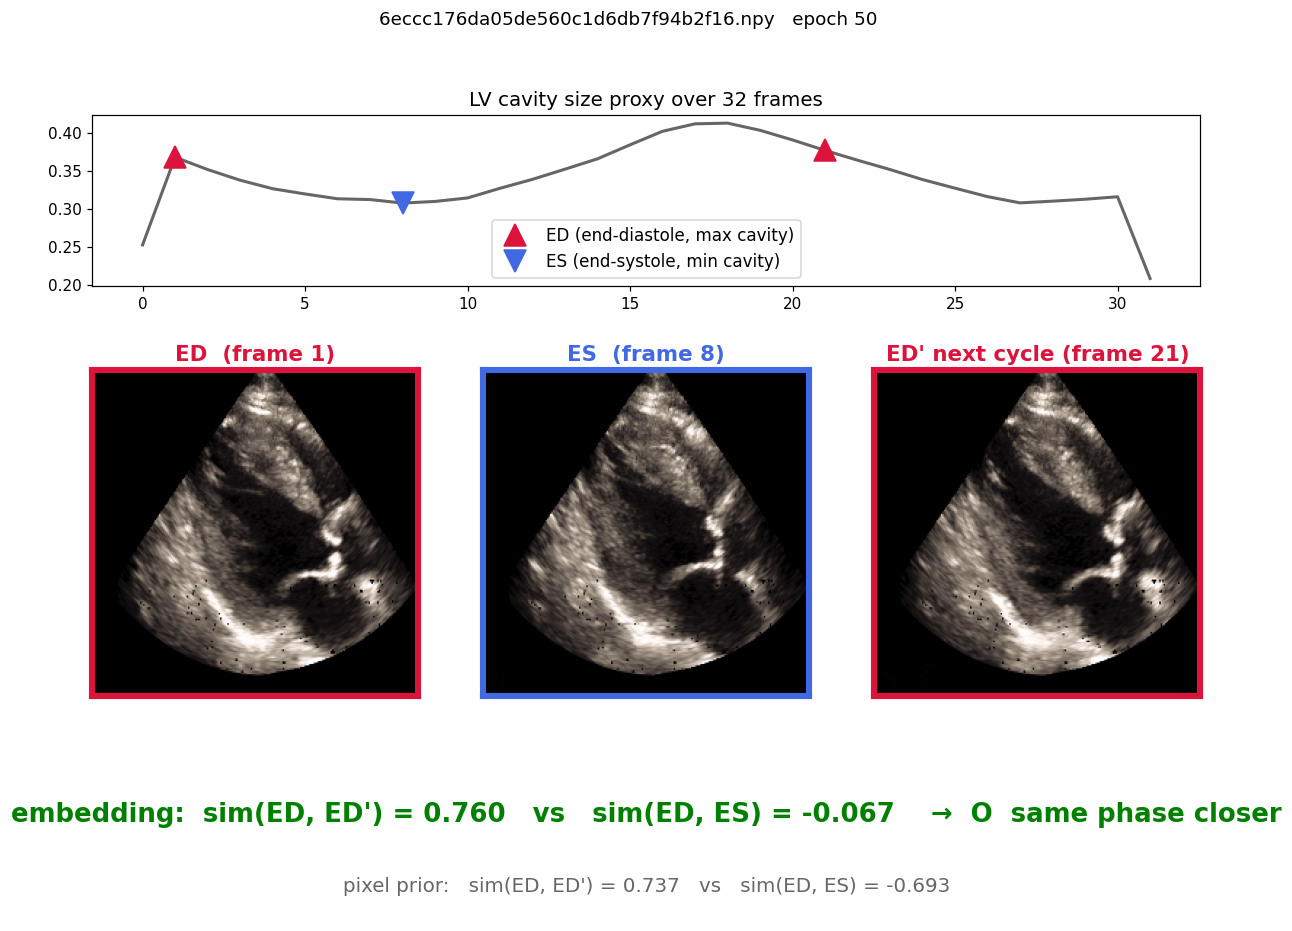
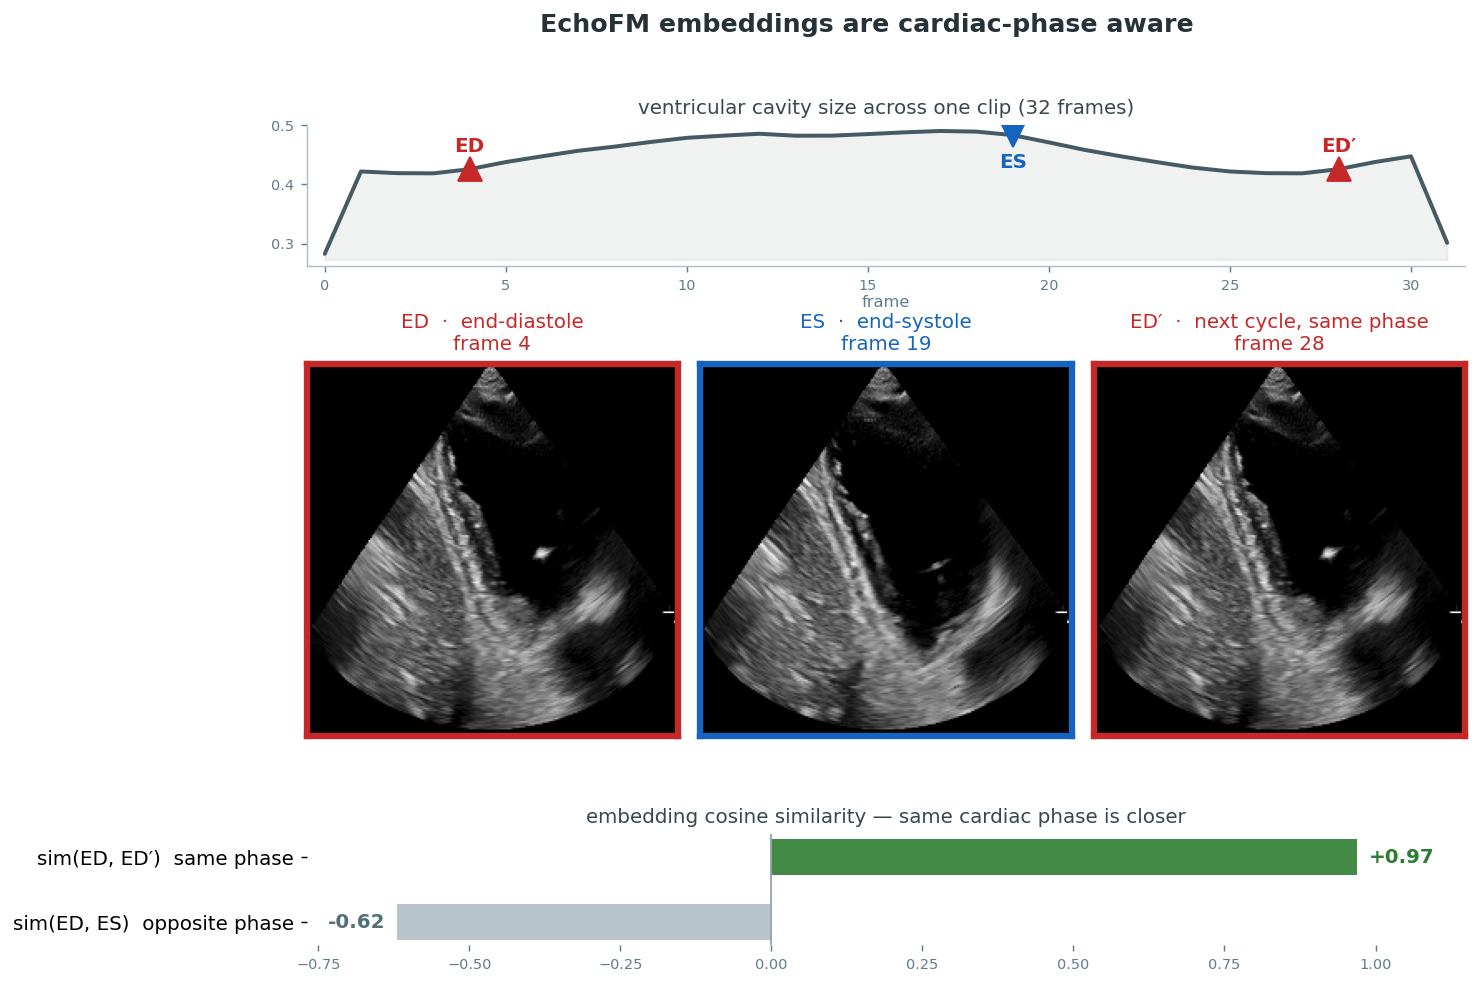
README: periodicity-aware pretraining section, polished verification figure, TMI citation

diff --git a/tools/make_readme_figure.py b/tools/make_readme_figure.py
@@ -1,0 +1,179 @@
+"""
+Polished periodicity figure for the README.
+
+Scans clips, keeps clean B-mode ones (no Doppler color) where the ED/ES
+cross-cycle test passes with a large margin, and renders a publication-style
+figure: cavity curve + ED/ES/ED' frames + embedding-similarity comparison.
+"""
+import argparse
+import os
+import sys
+
+sys.path.insert(0, os.path.dirname(os.path.dirname(os.path.abspath(__file__))))
+
+import numpy as np
+import torch
+import torch.nn.functional as F
+
+import matplotlib
+
+matplotlib.use("Agg")
+import matplotlib.pyplot as plt
+
+from EchoFM import models_mae
+from data.dataset import EchoDataset_from_cache_npy
+from tools.visualize_ed_es import cavity_curve, cycle_length, find_ed_es
+
+
+def parse_args():
+    ap = argparse.ArgumentParser()
+    ap.add_argument("--ckpt", required=True)
+    ap.add_argument("--data_path", required=True)
+    ap.add_argument("--num_scan", type=int, default=120)
+    ap.add_argument("--num_render", type=int, default=4)
+    ap.add_argument("--out", required=True)
+    ap.add_argument("--seed", type=int, default=3)
+    return ap.parse_args()
+
+
+@torch.no_grad()
+def embed_sim_map(model, imgs):
+    latent, _, _ = model.forward_encoder(imgs, mask_ratio=0.0)
+    z = F.normalize(torch.stack(model.forward_prj(latent), dim=1), dim=-1)
+    return torch.bmm(z, z.transpose(1, 2))[0].cpu().numpy()
+
+
+def is_bmode(imgs):
+    """True when the clip is essentially grayscale (no Doppler color)."""
+    x = imgs[0]  # [3, T, H, W]
+    return float((x.max(dim=0).values - x.min(dim=0).values).mean()) < 0.01
+
+
+def render(frames, area, ed1, es, ed2, e_same, e_opp, path):
+    fig = plt.figure(figsize=(11.5, 8.2), facecolor="white")
+    gs = fig.add_gridspec(
+        3, 3, height_ratios=[0.95, 2.6, 0.75], hspace=0.42, wspace=0.06
+    )
+
+    ax = fig.add_subplot(gs[0, :])
+    t = np.arange(len(area))
+    ax.plot(t, area, color="#455a64", lw=2.2, solid_capstyle="round")
+    ax.fill_between(t, area, area.min() - 0.01, color="#455a64", alpha=0.08)
+    for f, c, m in [(ed1, "#c62828", "^"), (es, "#1565c0", "v"), (ed2, "#c62828", "^")]:
+        ax.plot([f], [area[f]], m, color=c, ms=13, zorder=5)
+    ax.annotate("ED", (ed1, area[ed1]), textcoords="offset points", xytext=(0, 10),
+                ha="center", fontsize=11, color="#c62828", fontweight="bold")
+    ax.annotate("ES", (es, area[es]), textcoords="offset points", xytext=(0, -18),
+                ha="center", fontsize=11, color="#1565c0", fontweight="bold")
+    ax.annotate("ED′", (ed2, area[ed2]), textcoords="offset points", xytext=(0, 10),
+                ha="center", fontsize=11, color="#c62828", fontweight="bold")
+    ax.set_xlim(-0.5, len(area) - 0.5)
+    ax.set_title("ventricular cavity size across one clip (32 frames)",
+                 fontsize=11, color="#37474f")
+    ax.set_xlabel("frame", fontsize=9, color="#607d8b", labelpad=1)
+    ax.tick_params(labelsize=8, colors="#607d8b")
+    for s in ("top", "right"):
+        ax.spines[s].set_visible(False)
+    for s in ("left", "bottom"):
+        ax.spines[s].set_color("#b0bec5")
+
+    panels = [
+        (ed1, "ED  ·  end-diastole", "#c62828"),
+        (es, "ES  ·  end-systole", "#1565c0"),
+        (ed2, "ED′  ·  next cycle, same phase", "#c62828"),
+    ]
+    for i, (f, label, color) in enumerate(panels):
+        ax = fig.add_subplot(gs[1, i])
+        ax.imshow(frames[f])
+        ax.set_title(f"{label}\nframe {f}", fontsize=11, color=color, pad=8)
+        for s in ax.spines.values():
+            s.set_edgecolor(color)
+            s.set_linewidth(3.5)
+        ax.set_xticks([])
+        ax.set_yticks([])
+
+    ax = fig.add_subplot(gs[2, :])
+    ax.barh([1, 0], [e_same, e_opp], height=0.55,
+            color=["#2e7d32", "#b0bec5"], alpha=0.9)
+    ax.set_yticks([1, 0])
+    ax.set_yticklabels(["sim(ED, ED′)  same phase", "sim(ED, ES)  opposite phase"],
+                       fontsize=11)
+    for y, v in [(1, e_same), (0, e_opp)]:
+        ax.text(v + (0.02 if v >= 0 else -0.02), y, f"{v:+.2f}",
+                va="center", ha="left" if v >= 0 else "right",
+                fontsize=11, fontweight="bold",
+                color="#2e7d32" if y == 1 else "#546e7a")
+    ax.axvline(0, color="#90a4ae", lw=1)
+    lo = min(0.0, e_opp) - 0.15
+    ax.set_xlim(lo, max(e_same, 0) + 0.18)
+    ax.set_title("embedding cosine similarity — same cardiac phase is closer",
+                 fontsize=11, color="#37474f")
+    for s in ax.spines.values():
+        s.set_visible(False)
+    ax.tick_params(axis="x", labelsize=8, colors="#607d8b")
+
+    fig.suptitle("EchoFM embeddings are cardiac-phase aware", fontsize=14,
+                 fontweight="bold", color="#263238", y=0.985)
+    fig.savefig(path, dpi=130, bbox_inches="tight", facecolor="white")
+    plt.close(fig)
+
+
+def main():
+    args = parse_args()
+    os.makedirs(args.out, exist_ok=True)
+    device = "cuda" if torch.cuda.is_available() else "cpu"
+    torch.manual_seed(args.seed)
+
+    model = models_mae.mae_vit_large_patch16(
+        num_frames=32, t_patch_size=4, pred_t_dim=8,
+        sep_pos_embed=True, cls_embed=True, norm_pix_loss=True,
+    ).to(device).eval()
+    ckpt = torch.load(args.ckpt, map_location="cpu")
+    model.load_state_dict(ckpt.get("model", ckpt), strict=False)
+
+    ds = EchoDataset_from_cache_npy(
+        args.data_path, num_frames=32, image_size=224, frame_stride=1
+    )
+    rng = np.random.RandomState(args.seed)
+    picks = rng.choice(len(ds), size=min(args.num_scan, len(ds)), replace=False)
+
+    candidates = []
+    for clip_i in picks:
+        imgs = ds[int(clip_i)].unsqueeze(0).to(device)
+        if not is_bmode(imgs.cpu()):
+            continue
+        area = cavity_curve(imgs)
+        L = cycle_length(imgs)
+        eds, es = find_ed_es(area, L)
+        if len(eds) < 2:
+            continue
+        ed1, ed2 = eds
+        tk = lambda f: min(f // 4, 7)
+        if len({tk(ed1), tk(ed2), tk(es)}) < 3:
+            continue
+        # require visible contraction in the cavity curve
+        if area[ed1] - area[es] < 0.03 or area[ed2] - area[es] < 0.03:
+            continue
+        e = embed_sim_map(model, imgs)
+        e_same = float(e[tk(ed1), tk(ed2)])
+        e_opp = float(0.5 * (e[tk(ed1), tk(es)] + e[tk(ed2), tk(es)]))
+        if e_same <= e_opp + 0.3:
+            continue
+        candidates.append((e_same - e_opp, int(clip_i), ed1, es, ed2, e_same, e_opp))
+
+    candidates.sort(reverse=True)
+    print(f"{len(candidates)} strong B-mode candidates")
+    for rank, (gap, clip_i, ed1, es, ed2, e_same, e_opp) in enumerate(
+        candidates[: args.num_render]
+    ):
+        imgs = ds[clip_i]
+        frames = [np.clip(imgs[:, f].permute(1, 2, 0).numpy(), 0, 1)
+                  for f in range(imgs.shape[1])]
+        area = cavity_curve(imgs.unsqueeze(0))
+        path = os.path.join(args.out, f"hero_{rank:02d}_gap{gap:.2f}.png")
+        render(frames, area, ed1, es, ed2, e_same, e_opp, path)
+        print("wrote", path, os.path.basename(ds.paths[clip_i]))
+
+
+if __name__ == "__main__":
+    main()

diff --git a/README.md b/README.md
@@ -9,7 +9,7 @@ This model and associated code are released under the CC-BY-NC-ND 4.0 license an
 ## Key features
 
 - EchoFM is pre-trained on 290K Echocardiography clips with self-supervised learning
-- EchoFM has been validated in multiple downstream tasks including segmentatino, classification, disease detection tasks.
+- EchoFM has been validated in multiple downstream tasks including segmentation, classification, disease detection tasks.
 - EchoFM can be efficiently adapted to customised tasks.
 
 <img src="./figure/fig2.png" width="800px"></img>
@@ -50,23 +50,43 @@ Unit/smoke tests: `python tests/test_echofm.py [--cuda]`.
 
 A SLURM/apptainer launch script is provided in `cluster/pretrain_apptainer.job`.
 
-## 4. Periodicity verification
+## 4. Periodicity-aware pretraining: what makes EchoFM different
 
-The pretrained embeddings are phase-aware: frames one cardiac cycle apart (same phase)
-are closer in embedding space than frames half a cycle apart (opposite phase).
+Generic video foundation models treat an echocardiogram as an arbitrary video.
+EchoFM additionally exploits the one structure every echo is guaranteed to have —
+the **cardiac cycle** — as free supervision:
+
+- **Spatio-temporally consistent masking** keeps the same spatial patches visible in
+  every frame, so the encoder must explain appearance changes through cardiac motion
+  rather than by copying from other locations.
+- **Periodic contrastive learning.** A pixel-space cycle-similarity prior (motion
+  component only; static anatomy is removed) defines which frame pairs share a cardiac
+  phase. A hard-mined triplet loss plus a dense similarity-distillation (KL) loss
+  transfer this periodic structure into the embedding space.
+
+The result: frame embeddings encode *where in the cardiac cycle* each frame lies —
+learned **without ECG, ED/ES labels, or segmentation**. End-diastole frames from
+different cycles (ED, ED′) embed close together, while ED vs. end-systole (ES),
+half a cycle apart, are pushed far apart:
 
 <img src="./figure/ed_es_periodicity.png" width="800px"></img>
 
-`notebooks/echofm_usage.ipynb` shows how to extract features for downstream tasks,
-run masked reconstruction, and reproduce this periodicity check.
+On held-out clips the embedding phase contrast is positive for 100% of clips and the
+embedding similarity structure matches the pixel-level cycle structure with r = 0.98.
+`notebooks/echofm_usage.ipynb` reproduces this check, along with feature extraction
+for downstream tasks and masked reconstruction.
 
 ## 5. Citation
-If you find this repository useful, please consider citing this paper: [will be released soon]
+If you find this repository useful, please consider citing our IEEE TMI paper:
 ```
-@article{kim2024echofm,
+@article{kim2025echofm,
   title={EchoFM: Foundation Model for Generalizable Echocardiogram Analysis},
   author={Kim, Sekeun and Jin, Pengfei and Song, Sifan and Chen, Cheng and Li, Yiwei and Ren, Hui and Li, Xiang and Liu, Tianming and Li, Quanzheng},
-  journal={arXiv preprint arXiv:2410.23413},
-  year={2024}
+  journal={IEEE Transactions on Medical Imaging},
+  volume={44},
+  number={10},
+  pages={4049--4062},
+  year={2025},
+  doi={10.1109/TMI.2025.3580713}
 }
 ```
